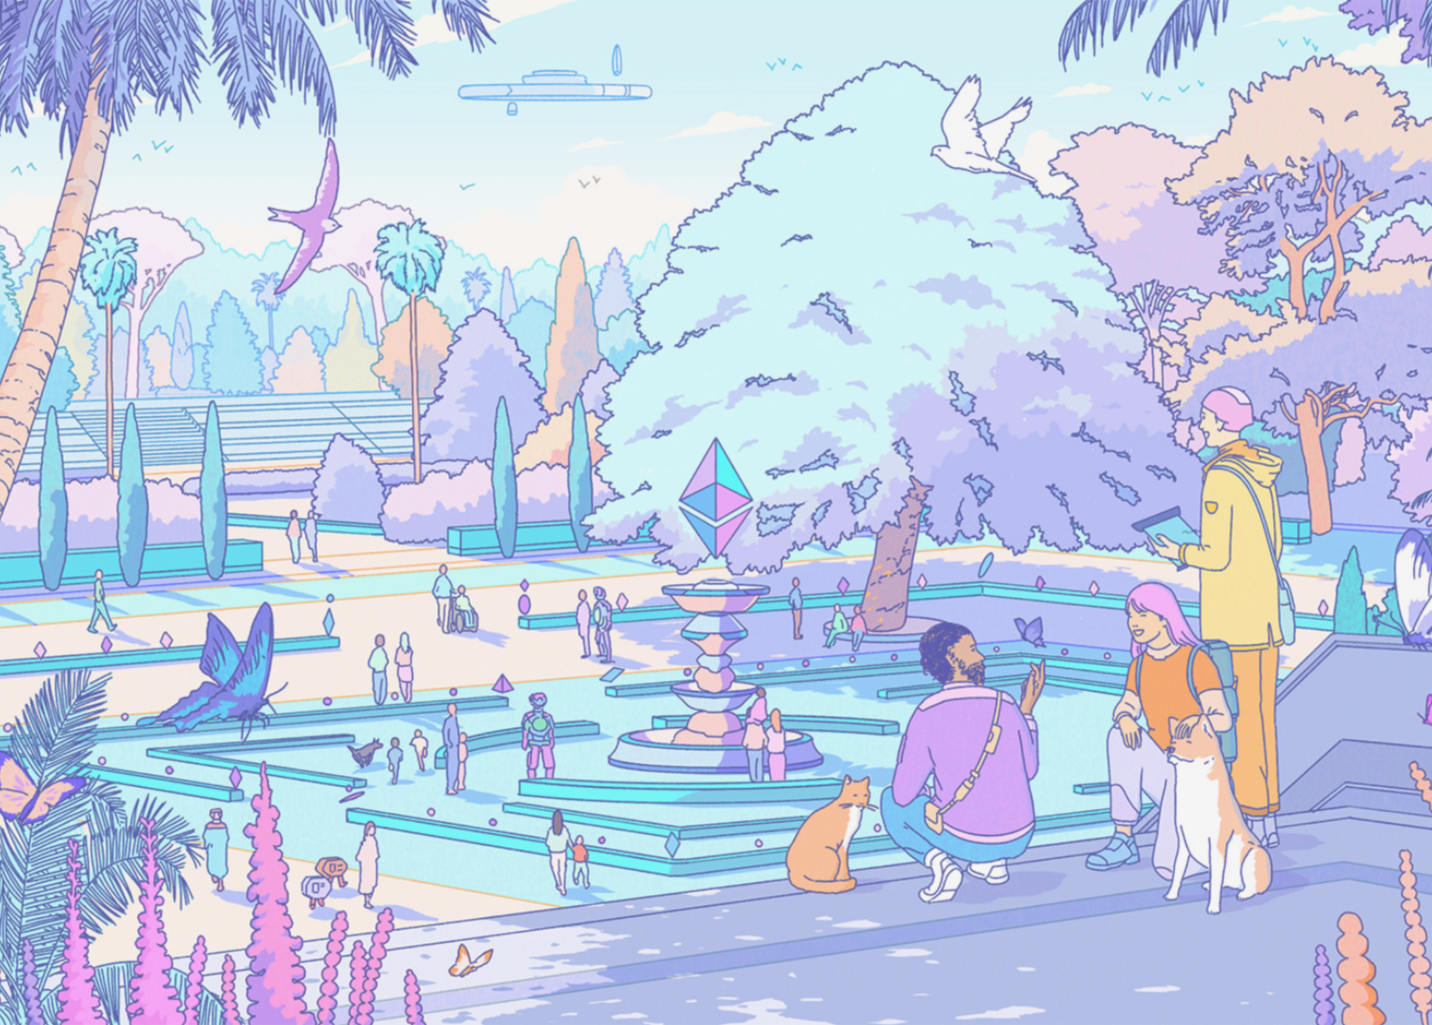
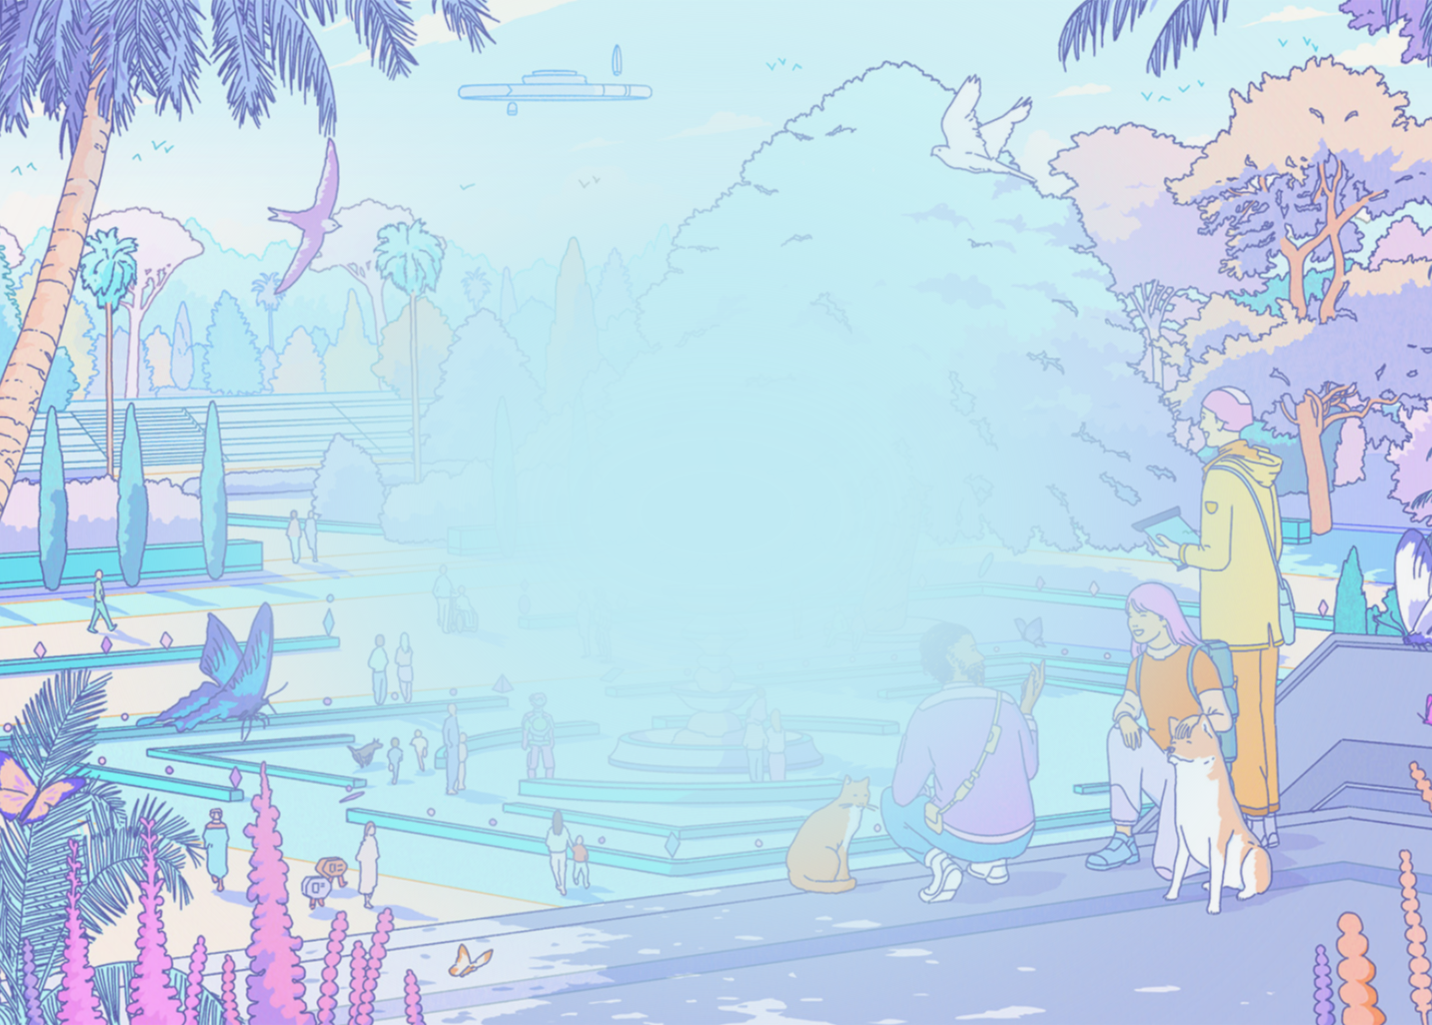
Disable suggested follows and use hardcoded starter packs instead
The Chai PDS cannot proxy the getSuggestedFollowsByActor appview endpoint
(returns 502/CORS errors). Disables the suggested follows UI in profile
headers and the follow mutation side-effects, returning empty results from
the query hook. Also updates the welcome modal background image.

diff --git a/src/screens/Profile/Header/ProfileHeaderStandard.tsx b/src/screens/Profile/Header/ProfileHeaderStandard.tsx
@@ -1,4 +1,4 @@
-import {memo, useMemo, useState} from 'react'
+import {memo, useMemo} from 'react'
 import {View} from 'react-native'
 import {
   type AppBskyActorDefs,
@@ -45,7 +45,8 @@ import {EditProfileDialog} from './EditProfileDialog'
 import {ProfileHeaderHandle} from './Handle'
 import {ProfileHeaderMetrics} from './Metrics'
 import {ProfileHeaderShell} from './Shell'
-import {ProfileHeaderSuggestedFollows} from './SuggestedFollows'
+// Disabled: Chai app uses hardcoded accounts/starter packs instead.
+// import {ProfileHeaderSuggestedFollows} from './SuggestedFollows'
 
 interface Props {
   profile: AppBskyActorDefs.ProfileViewDetailed
@@ -74,9 +75,10 @@ let ProfileHeaderStandard = ({
   )
   const [, queueUnblock] = useProfileBlockMutationQueue(profile)
   const unblockPromptControl = Prompt.usePromptControl()
-  const [showSuggestedFollows, setShowSuggestedFollows] = useState(false)
-  const [hasSeenAllSuggestedFollows, setHasSeenAllSuggestedFollows] =
-    useState(false)
+  // Disabled: Chai app uses hardcoded accounts/starter packs instead.
+  // const [showSuggestedFollows, setShowSuggestedFollows] = useState(false)
+  // const [hasSeenAllSuggestedFollows, setHasSeenAllSuggestedFollows] =
+  //   useState(false)
   const isBlockedUser =
     profile.viewer?.blocking ||
     profile.viewer?.blockedBy ||
@@ -95,10 +97,10 @@ let ProfileHeaderStandard = ({
     }
   }
 
-  const onRequestHide = () => {
-    setHasSeenAllSuggestedFollows(true)
-    setShowSuggestedFollows(false)
-  }
+  // const onRequestHide = () => {
+  //   setHasSeenAllSuggestedFollows(true)
+  //   setShowSuggestedFollows(false)
+  // }
 
   const isMe = currentAccount?.did === profile.did
 
@@ -129,8 +131,8 @@ let ProfileHeaderStandard = ({
               profile={profile}
               moderation={moderation}
               moderationOpts={moderationOpts}
-              onFollow={() => setShowSuggestedFollows(true)}
-              onUnfollow={() => setShowSuggestedFollows(false)}
+              // onFollow={() => setShowSuggestedFollows(true)}
+              // onUnfollow={() => setShowSuggestedFollows(false)}
             />
           </View>
           <View
@@ -210,11 +212,12 @@ let ProfileHeaderStandard = ({
         />
       </ProfileHeaderShell>
 
-      <ProfileHeaderSuggestedFollows
+      {/* Disabled: Chai app uses hardcoded accounts/starter packs instead. */}
+      {/* <ProfileHeaderSuggestedFollows
         isExpanded={!hasSeenAllSuggestedFollows && showSuggestedFollows}
         actorDid={profile.did}
         onRequestHide={onRequestHide}
-      />
+      /> */}
     </>
   )
 }

diff --git a/src/state/queries/suggested-follows.ts b/src/state/queries/suggested-follows.ts
@@ -12,7 +12,7 @@ import {
 } from '@tanstack/react-query'
 
 import {STALE} from '#/state/queries'
-import {useAgent} from '#/state/session'
+// import {useAgent} from '#/state/session'
 import type * as bsky from '#/types/bsky'
 
 const suggestedFollowsQueryKeyRoot = 'suggested-follows'
@@ -25,27 +25,33 @@ export const suggestedFollowsByActorQueryKey = (did: string) => [
 
 export function useSuggestedFollowsByActorQuery({
   did,
-  enabled,
+  enabled: _enabled,
   staleTime = STALE.MINUTES.FIVE,
 }: {
   did: string
   enabled?: boolean
   staleTime?: number
 }) {
-  const agent = useAgent()
+  // Disabled: Chai app uses hardcoded accounts/starter packs instead.
+  // The Chai PDS cannot proxy this appview endpoint (returns 502/CORS errors).
+  // const agent = useAgent()
   return useQuery({
     staleTime,
     queryKey: suggestedFollowsByActorQueryKey(did),
     queryFn: async () => {
-      const res = await agent.app.bsky.graph.getSuggestedFollowsByActor({
-        actor: did,
-      })
-      const suggestions = res.data.suggestions.filter(
-        profile => !profile.viewer?.following,
-      )
-      return {suggestions, recId: res.data.recIdStr}
+      // const res = await agent.app.bsky.graph.getSuggestedFollowsByActor({
+      //   actor: did,
+      // })
+      // const suggestions = res.data.suggestions.filter(
+      //   profile => !profile.viewer?.following,
+      // )
+      // return {suggestions, recId: res.data.recIdStr}
+      return {
+        suggestions: [] as AppBskyActorDefs.ProfileView[],
+        recId: undefined,
+      }
     },
-    enabled,
+    enabled: false,
   })
 }
 

diff --git a/src/state/queries/profile.ts b/src/state/queries/profile.ts
@@ -248,7 +248,7 @@ export function useProfileFollowMutationQueue(
   position?: number,
   contextProfileDid?: string,
 ) {
-  const agent = useAgent()
+  // const agent = useAgent() // Disabled: was only used for getSuggestedFollowsByActor
   const queryClient = useQueryClient()
   const {currentAccount} = useSession()
   const did = profile.did
@@ -328,19 +328,20 @@ export function useProfileFollowMutationQueue(
         )
       }
 
-      if (finalFollowingUri) {
-        void agent.app.bsky.graph
-          .getSuggestedFollowsByActor({
-            actor: did,
-          })
-          .then(res => {
-            const dids = res.data.suggestions
-              .filter(a => !a.viewer?.following)
-              .map(a => a.did)
-              .slice(0, 8)
-            userActionHistory.followSuggestion(dids)
-          })
-      }
+      // Disabled: Chai app uses hardcoded accounts/starter packs instead.
+      // if (finalFollowingUri) {
+      //   void agent.app.bsky.graph
+      //     .getSuggestedFollowsByActor({
+      //       actor: did,
+      //     })
+      //     .then(res => {
+      //       const dids = res.data.suggestions
+      //         .filter(a => !a.viewer?.following)
+      //         .map(a => a.did)
+      //         .slice(0, 8)
+      //       userActionHistory.followSuggestion(dids)
+      //     })
+      // }
     },
   })
 
